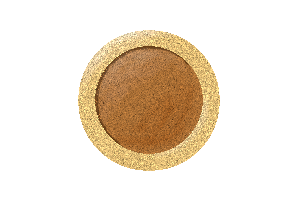
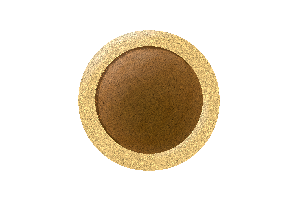
Coin & Cost image

Changed region(s): [[0.33, 0.27, 0.69, 0.78]]

diff --git a/src/app/cube-card.ts b/src/app/cube-card.ts
@@ -17,24 +17,27 @@ export class CubeCard extends Tile  {
   // static family = 'Futura'; static fontLead = 12; // Futura steps on itsefl..
   static family = 'Helvetica Neue'; static fontLead = 6;
   static nameFont = (`normal 470 condensed 65px ${CubeCard.family}`);
-  static coinFont = F.fontSpec(80, `${CubeCard.family}`, 'bold');
+  static coinFont = F.fontSpec(90, `${CubeCard.family}`, 'bold');
   static titleFont = F.fontSpec(36, `${CubeCard.family}`, 'bold');
   static textFont = F.fontSpec(36, `${CubeCard.family}`, '470 condensed');
+  static itextFont = F.fontSpec(36, `${CubeCard.family}`, 'italic 470 condensed');
   static get fnames() {
     return  [... Object.keys(CubeCard.cmap), ... Object.values(CubeTweaker.glyphImage)];
   }
   static cards: CARD[] = [
-    {Aname: 'Red Card', cost: 1, color: 'red', now: '', run: '(  $![COMPARE $X])Do the power run'},
+    {Aname: 'Red Menace 2', cost: 6, color: 'red', now: '', runp: '($! RUN)$! = 2 $X each.', run: '(RUN [COMPARE $X])MOST $X:\n[Start player $= breaks ties]\n\nGain an ORANGE or YELLOW $=.\n\nLose 1 RED $= [not optional].'},
+    {Aname: 'Red Menace', cost: 5, color: 'red', now: '', run: '(RUN [COMPARE $X])MOST $X:\n[Start player $= breaks ties]\n\nGain an ORANGE or YELLOW $=.\n\nLose 1 RED $= [not optional].'},
+    {Aname: 'Slim Cat', cost: 5, color: 'white', now: 'Gain 1$$.\n\nGain 1 GRAY $= [if possible]\nand gain 3$f', run: '+1 $f per active GREY $=; \n-1 $f per active GREEN $=.'},
 
-    {Aname: 'Cubasaurus', cost: 1, color: 'purple', now: 'test text', run: '1:I$Fy2:$$3:$!4:$XLast\nLiMTBe 2:$f:$C:$V:$H:'},
-    {Aname: 'Green Card', cost: 4, color: 'green', now: '', active: 'If you would bust, use this: \nselect 1 Grey $= from Roll Zone, \nset it to a face; you do not bust', run: 'Lose the $= you selected.'},
-    {Aname: 'Yellow Card', cost: 7, color: 'yellow', now: 'Gain 1 $# $f per active Grey $=,\ngain 1 Grey $=.', active: '', run: 'If you have > 4 active Grey $=,\nlose this.'},
-    {Aname: 'Switch Hitter', cost: 4, color: 'orange', now: '', run: 'Lose 1 non-Grey $= [not optional], \nGain $f = half the cost of that die.'},
-    {Aname: 'Brown Card', cost: 4, color: 'brown', now: '', run: 'You may lose a Grey $= from Roll, \nIf you do: \ngain a Grey $= and 1 $f.'},
-    {Aname: 'White Card', cost: 6, color: 'white', now: '', run: '+1 $f per active $C Grey $=; \n-1 $f per active Green $=.'},
-    {Aname: 'Chilly\nMcChillster', cost: 1, color: 'blue', now: 'Gain 2 $f: these $f may be \nused to enter water spaces.', run: 'Lose a Grey $=.'},
-    {Aname: 'Orange\nName', cost: 8, color: 'orange', now: 'Gain 1 $f per active Grey $=, \nuse them immediately.', active: '', run: 'If you have > 4 active Grey $=,\nlose this.'},
-    {Aname: 'Yellow Card', cost: 7, color: 'yellow', now: 'If a Green $= is active, lose it,\ngain 3 $f & 3 $$.', run: 'gain a $= costing < the $= you lost.'},
+    {Aname: 'Cubasaurus', cost: 1, color: 'purple', now: 'test text', run: ''},
+    {Aname: 'Niña Cubelada', cost: 5, color: 'green', now: '', active: 'If you would bust, use this: \nYou may select 1 GREY $= \nfrom your Roll Zone \nand set it to a face.\nIf you did, you do not bust.', run: 'Lose the $= you selected.'},
+    {Aname: 'Mellow Yellow', cost: 7, color: 'yellow', now: 'Gain 1 $# per active GREY $=.', active: '', run: 'Gain a GREY $=.\nIf you have > 4 active GREY $=,\nlose this.'},
+    {Aname: 'Yellow Card', cost: 7, color: 'yellow', now: 'If you have an active GREEN $=,\nlose it.', run: 'Gain 3$$\nGain a $= costing < the $= you lost.\nGain $f = the cost of the $= you gain.'},
+    {Aname: 'Switch Hitter', cost: 6, color: 'orange', now: '', run: 'Lose 1 non-GREY $= [not optional], \nGain $f = half the cost of that die.'},
+    {Aname: 'Bone Yard', cost: 3, color: 'brown', now: '', run: 'You may lose a GREY $= from Roll, \nIf you do: \ngain a GREY $= and 1 $f.'},
+    {Aname: 'White Card', cost: 6, color: 'white', now: '', run: '+1 $f per active GREY $=; \n-1 $f per active GREEN $=.'},
+    {Aname: 'Chilly\nMcChillster', cost: 1, color: 'blue', now: 'Gain 2 $f: these $f may be \nused to enter water spaces.', run: 'Lose a GREY $=.'},
+    {Aname: 'Grand Slam', cost: 8, color: 'orange', now: 'Gain 1 $f per active GREY $=, \nuse them immediately.', active: '', run: 'If you have > 4 active GREY $=,\nlose this.'},
     {Aname: 'Card Name', cost: 1, color: '', now: '', run: ''},
     // {Aname: 'Card Name', cost: 1, color: '', now: '', run: ''},
     // {Aname: 'Card Name', cost: 1, color: '', now: '', run: ''},
@@ -81,18 +84,22 @@ export class CubeCard extends Tile  {
   cost = 2;
   now = '';
   active = '';
+  runp = '';
   run = '';
   image?: ImageBitmap;
   tweaker: CubeTweaker;
   gridSpec = TileExporter.euroPoker;
+  keys = ['now', 'active', 'run'] as (keyof CubeCard)[];
 
   constructor(desc: CARD) {
     super(desc.Aname);
-    const desc2 = { now: '', active: '', run: '', ...desc };
+    const desc2 = { now: '', active: '', runp: '', run: '', ...desc };
     this.color = desc.color;
     this.cost = desc.cost;
+    // this.keys.map(k => this[k] = desc2[k])
     this.now = desc2.now;
     this.active = desc2.active;
+    this.runp = desc2.runp;
     this.run = desc2.run;
     this.tweaker = new CubeTweaker(this);
     this.addComponents();
@@ -138,24 +145,24 @@ export class CubeCard extends Tile  {
     this.paint(this.color)
   }
 
-  makeCoin(x0=0, y0=0) {
+  makeCoin(x0 = 0, y0 = 0) {
     const cont = new NamedContainer('costCoin');
-    const ring = new CircleShape(C.coinGold, 60, '');
-    const disk = new CircleShape('rgb(180,130,17)', 50, '');
+    const bmi = AliasLoader.loader.getBitmap('coin', 300); // noStencil
+    bmi.x += 2; bmi.y -= 2;
     const cost = new CenterText(`${this.cost}`, CubeCard.coinFont, C.coinGold)
-    cont.addChild(ring, disk, cost)
+    cont.addChild(bmi, cost);
     cont.x = x0; cont.y = y0;
     return cont;
   }
 
   addBoxes(y0 = 0, ygap = 16) {
-    const keys0 = ['now', 'active', 'run'] as (keyof CubeCard)[];
+    const keys0 = ['now', 'active', 'runp', 'run'] as (keyof CubeCard)[];
     const keys = keys0.filter(l => this[l]); // as Record<string|'txt', string>[];
     keys.map(key => {
-      const txt = this[key] as string;
+      const txt = `${this[key] as string} `;
       const special = txt.match(/^\(([^\n]*)\)(.*)/);
       const title = special ? special[1] : key.toUpperCase();
-      const content = special ? special[2] : txt;
+      const content = special ? txt.substring(title.length + 2) : txt;
       const tbox = this.makeTitleBox(title, y0) as RectWithDisp;
       const cbox = this.makeContentBox(content, y0);
       // overlap corner radius, lead, descenders (approx)
@@ -273,7 +280,7 @@ class CubeTweaker extends TextTweaks {
     credit2: { dx: 15, dy: 18, size: 46, noStencil: 1 },
     roll: { dx: 50, dy: 17, size: 90 },
     flag: { dx: 25, dy: 20, size: 90 },
-    coin: { dx: 25, dy: 17, size: 90, noStencil: 1 },
+    coin: { dx: 20, dy: 17, size: 60, noStencil: 1 },
     power: { dx: 25, dy: 17, size: 45 },
     sword: { dx: 25, dy: 17, size: 45 },
     shield: { dx: 25, dy: 20, size: 40 },
